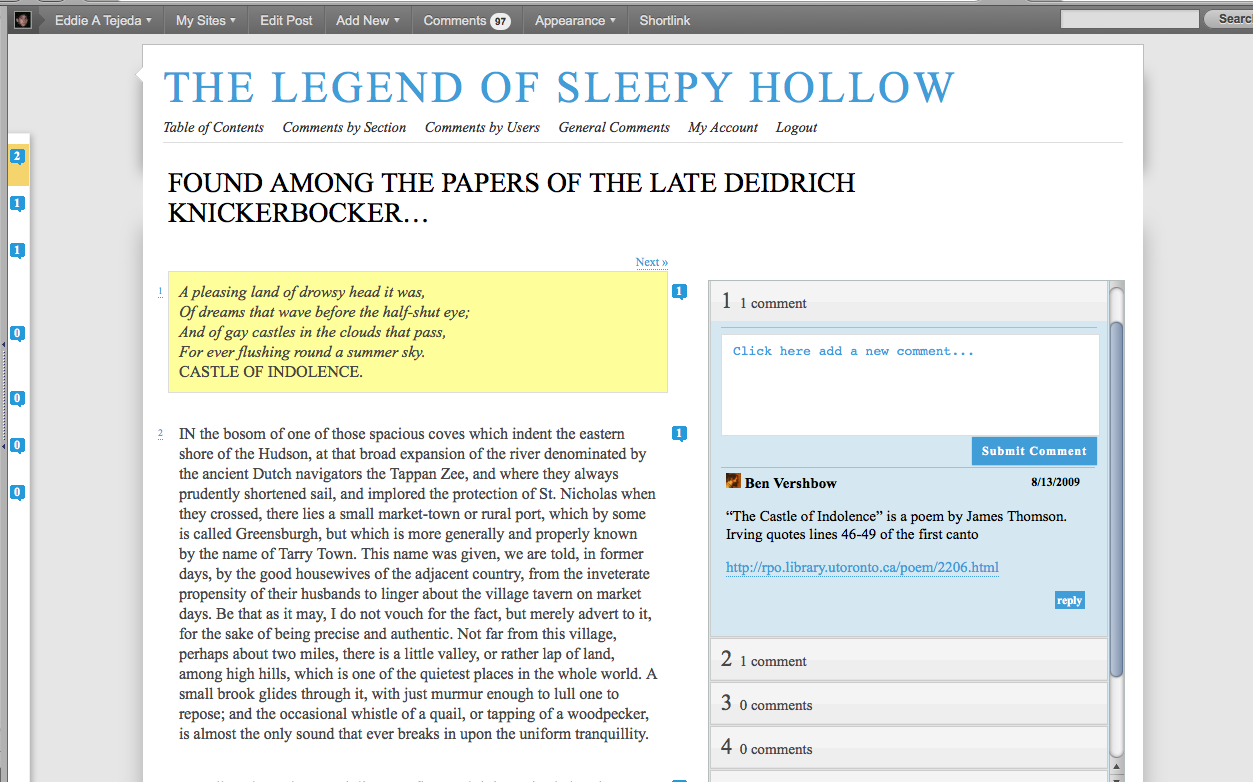
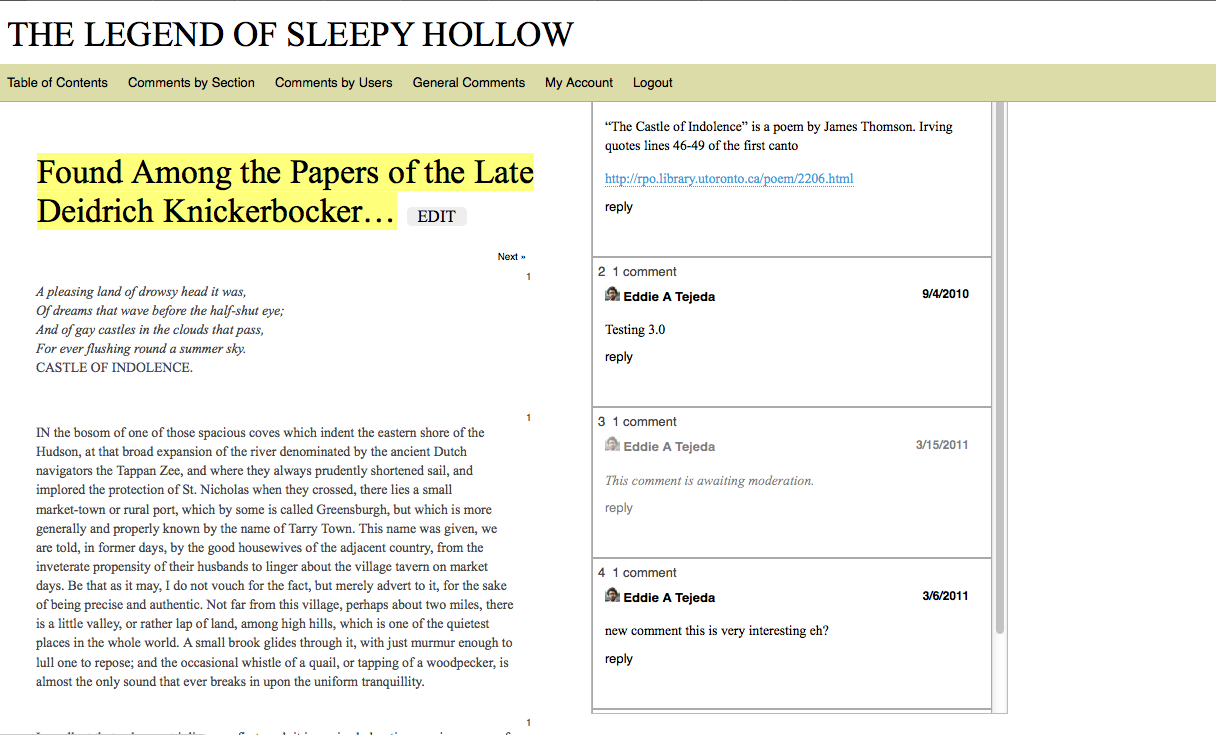
html5.js screenshots and new theme

diff --git a/trunk/core/js/html5.js b/trunk/core/js/html5.js
@@ -1,0 +1,3 @@
+// html5shiv MIT @rem remysharp.com/html5-enabling-script
+// iepp v1.6.2 MIT @jon_neal iecss.com/print-protector
+/*@cc_on(function(a,b){function r(a){var b=-1;while(++b<f)a.createElement(e[b])}if(!(!window.attachEvent||!b.createStyleSheet||!function(){var a=document.createElement("div");a.innerHTML="<elem></elem>";return a.childNodes.length!==1}())){a.iepp=a.iepp||{};var c=a.iepp,d=c.html5elements||"abbr|article|aside|audio|canvas|datalist|details|figcaption|figure|footer|header|hgroup|mark|meter|nav|output|progress|section|summary|time|video",e=d.split("|"),f=e.length,g=new RegExp("(^|\\s)("+d+")","gi"),h=new RegExp("<(/*)("+d+")","gi"),i=/^\s*[\{\}]\s*$/,j=new RegExp("(^|[^\\n]*?\\s)("+d+")([^\\n]*)({[\\n\\w\\W]*?})","gi"),k=b.createDocumentFragment(),l=b.documentElement,m=l.firstChild,n=b.createElement("body"),o=b.createElement("style"),p=/print|all/,q;c.getCSS=function(a,b){if(a+""===undefined)return"";var d=-1,e=a.length,f,g=[];while(++d<e){f=a[d];if(f.disabled)continue;b=f.media||b,p.test(b)&&g.push(c.getCSS(f.imports,b),f.cssText),b="all"}return g.join("")},c.parseCSS=function(a){var b=[],c;while((c=j.exec(a))!=null)b.push(((i.exec(c[1])?"\n":c[1])+c[2]+c[3]).replace(g,"$1.iepp_$2")+c[4]);return b.join("\n")},c.writeHTML=function(){var a=-1;q=q||b.body;while(++a<f){var c=b.getElementsByTagName(e[a]),d=c.length,g=-1;while(++g<d)c[g].className.indexOf("iepp_")<0&&(c[g].className+=" iepp_"+e[a])}k.appendChild(q),l.appendChild(n),n.className=q.className,n.id=q.id,n.innerHTML=q.innerHTML.replace(h,"<$1font")},c._beforePrint=function(){o.styleSheet.cssText=c.parseCSS(c.getCSS(b.styleSheets,"all")),c.writeHTML()},c.restoreHTML=function(){n.innerHTML="",l.removeChild(n),l.appendChild(q)},c._afterPrint=function(){c.restoreHTML(),o.styleSheet.cssText=""},r(b),r(k);if(c.disablePP)return;m.insertBefore(o,m.firstChild),o.media="print",o.className="iepp-printshim",a.attachEvent("onbeforeprint",c._beforePrint),a.attachEvent("onafterprint",c._afterPrint)}})(this,document)@*/

diff --git a/trunk/themes/digressit-report/style.css b/trunk/themes/digressit-report/style.css
@@ -39,7 +39,7 @@ body{
 
 .the_title{
 	border: 0px !important;
-	margin-left: 100px;
+	margin-left: 40px;
 }
 
 .home #content{
@@ -138,6 +138,15 @@ strong {
 	
 .the_title{
 	margin-top: 100px;
+	width: 100%;
+}
+
+.the_title h2{
+    border: 1px solid #FFFFFF;
+    color: #000000;
+    font: 2.25em "Times New Roman","Times New Roman PS MT",Times,serif;
+    margin: 0.5em 0;
+    width: 50%;
 }	
 
 .digressit-enabled .post, .digressit-enabled .page{
@@ -156,8 +165,15 @@ strong {
     padding-right: 0;
 }
 
+.horizontal{
+	display:none;
+}
+.menu-site-container{
+	float: left;
+}
 #menu-primary ul {
-    margin-bottom: 10px;
+    float: left;
+    margin-bottom: 3px;
     margin-left: 0;
     margin-top: 5px;
     padding-left: 0;
@@ -165,11 +181,14 @@ strong {
 }
 
 .container{
-	margin-top: 200px;
+	margin-top: 150px;
 }
 #menu-primary{
-	text-align: left;
-	background-color: #DCDCA9;
+    background-color: #DCDCA9;
+    float: left;
+    padding: 0;
+    text-align: left;
+    width: 100%;
 }	
 
 .site-title h1 {
@@ -185,7 +204,7 @@ strong {
     display: block;
     float: none;
     font-size: 180%;
-    padding: 30px 10px 0;
+    padding: 40px 10px 10px;
     text-decoration: none;
 }
 	

diff --git a/trunk/core/core-functions.php b/trunk/core/core-functions.php
@@ -232,6 +232,12 @@ function digressit_setup(){
 function digressit_init(){
 
 	global $digressit_options;
+	$digressit_options = get_option('digressit');
+
+	//something went wrong. reset settings.
+	if(count($digressit_options) < 15) {
+		activate_digressit();
+	}
 
 	/* upgrade to Digress.it 3.2 */
 	if($digressit_options['version'] != DIGRESSIT_VERSION){		
@@ -244,6 +250,7 @@ function digressit_init(){
 
 		update_option('digressit', $digressit_options);
 	}
+
 
 }
 
@@ -1292,9 +1299,10 @@ function digressit_core_print_scripts(){
 
 		</script>	
 		<?php
+		
 	
 
-		if(1){
+		if($digressit_options['debug_mode'] == 1){
 			wp_enqueue_script('digressit.core',		get_digressit_media_uri('js/digressit.core.js'), 'jquery', false, true );	
 			wp_enqueue_script('jquery.easing', 		get_digressit_media_uri('js/jquery.easing.js'), 'jquery', false, true );		
 			wp_enqueue_script('jquery.scrollto',	get_digressit_media_uri('js/jquery.scrollTo.js'), 'jquery', false, true );		
@@ -1302,7 +1310,7 @@ function digressit_core_print_scripts(){
 			wp_enqueue_script('jquery.mousewheel',	get_digressit_media_uri('js/jquery.mousewheel.js'), 'jquery', false, true );		
 			wp_enqueue_script('jquery.em',			get_digressit_media_uri('js/jquery.em.js'), 'jquery', false, true );
 			wp_enqueue_script('jquery.copy',			get_digressit_media_uri('js/jquery.copy.js'), 'jquery', false, true );
-			wp_enqueue_script('superfish.js',			get_digressit_media_uri('js/superfish.js'), 'jquery', false, true );
+			wp_enqueue_script('html5.js',			get_digressit_media_uri('js/html5.js'), 'jquery', false, true );
 		}		
 		else{
 			wp_enqueue_script('digressit.core',		get_digressit_media_uri('js/digressit.core.min.js'), 'jquery', false, true );				

diff --git a/trunk/themes/digressit-wireframe/header.php b/trunk/themes/digressit-wireframe/header.php
@@ -25,7 +25,7 @@ if(function_exists('digressit_body_class')){
 <div id="wrapper"> <!-- this is closed in footer -->
 
 <?php do_action('optional_pre_header'); ?>
-<div id="header" role="header">
+<header id="header" role="header">
 	<div class="site-title" role="banner">
 		<div class="bubblearrow"></div>		
 		<?php if(has_action('add_header_image')): ?>
@@ -92,7 +92,7 @@ if(function_exists('digressit_body_class')){
 	<?php endif; ?>
 	
 	<div class="horizontal"></div>
-</div> 
+</header> 
 <?php
 do_action('secondary_menu');
 ?>
